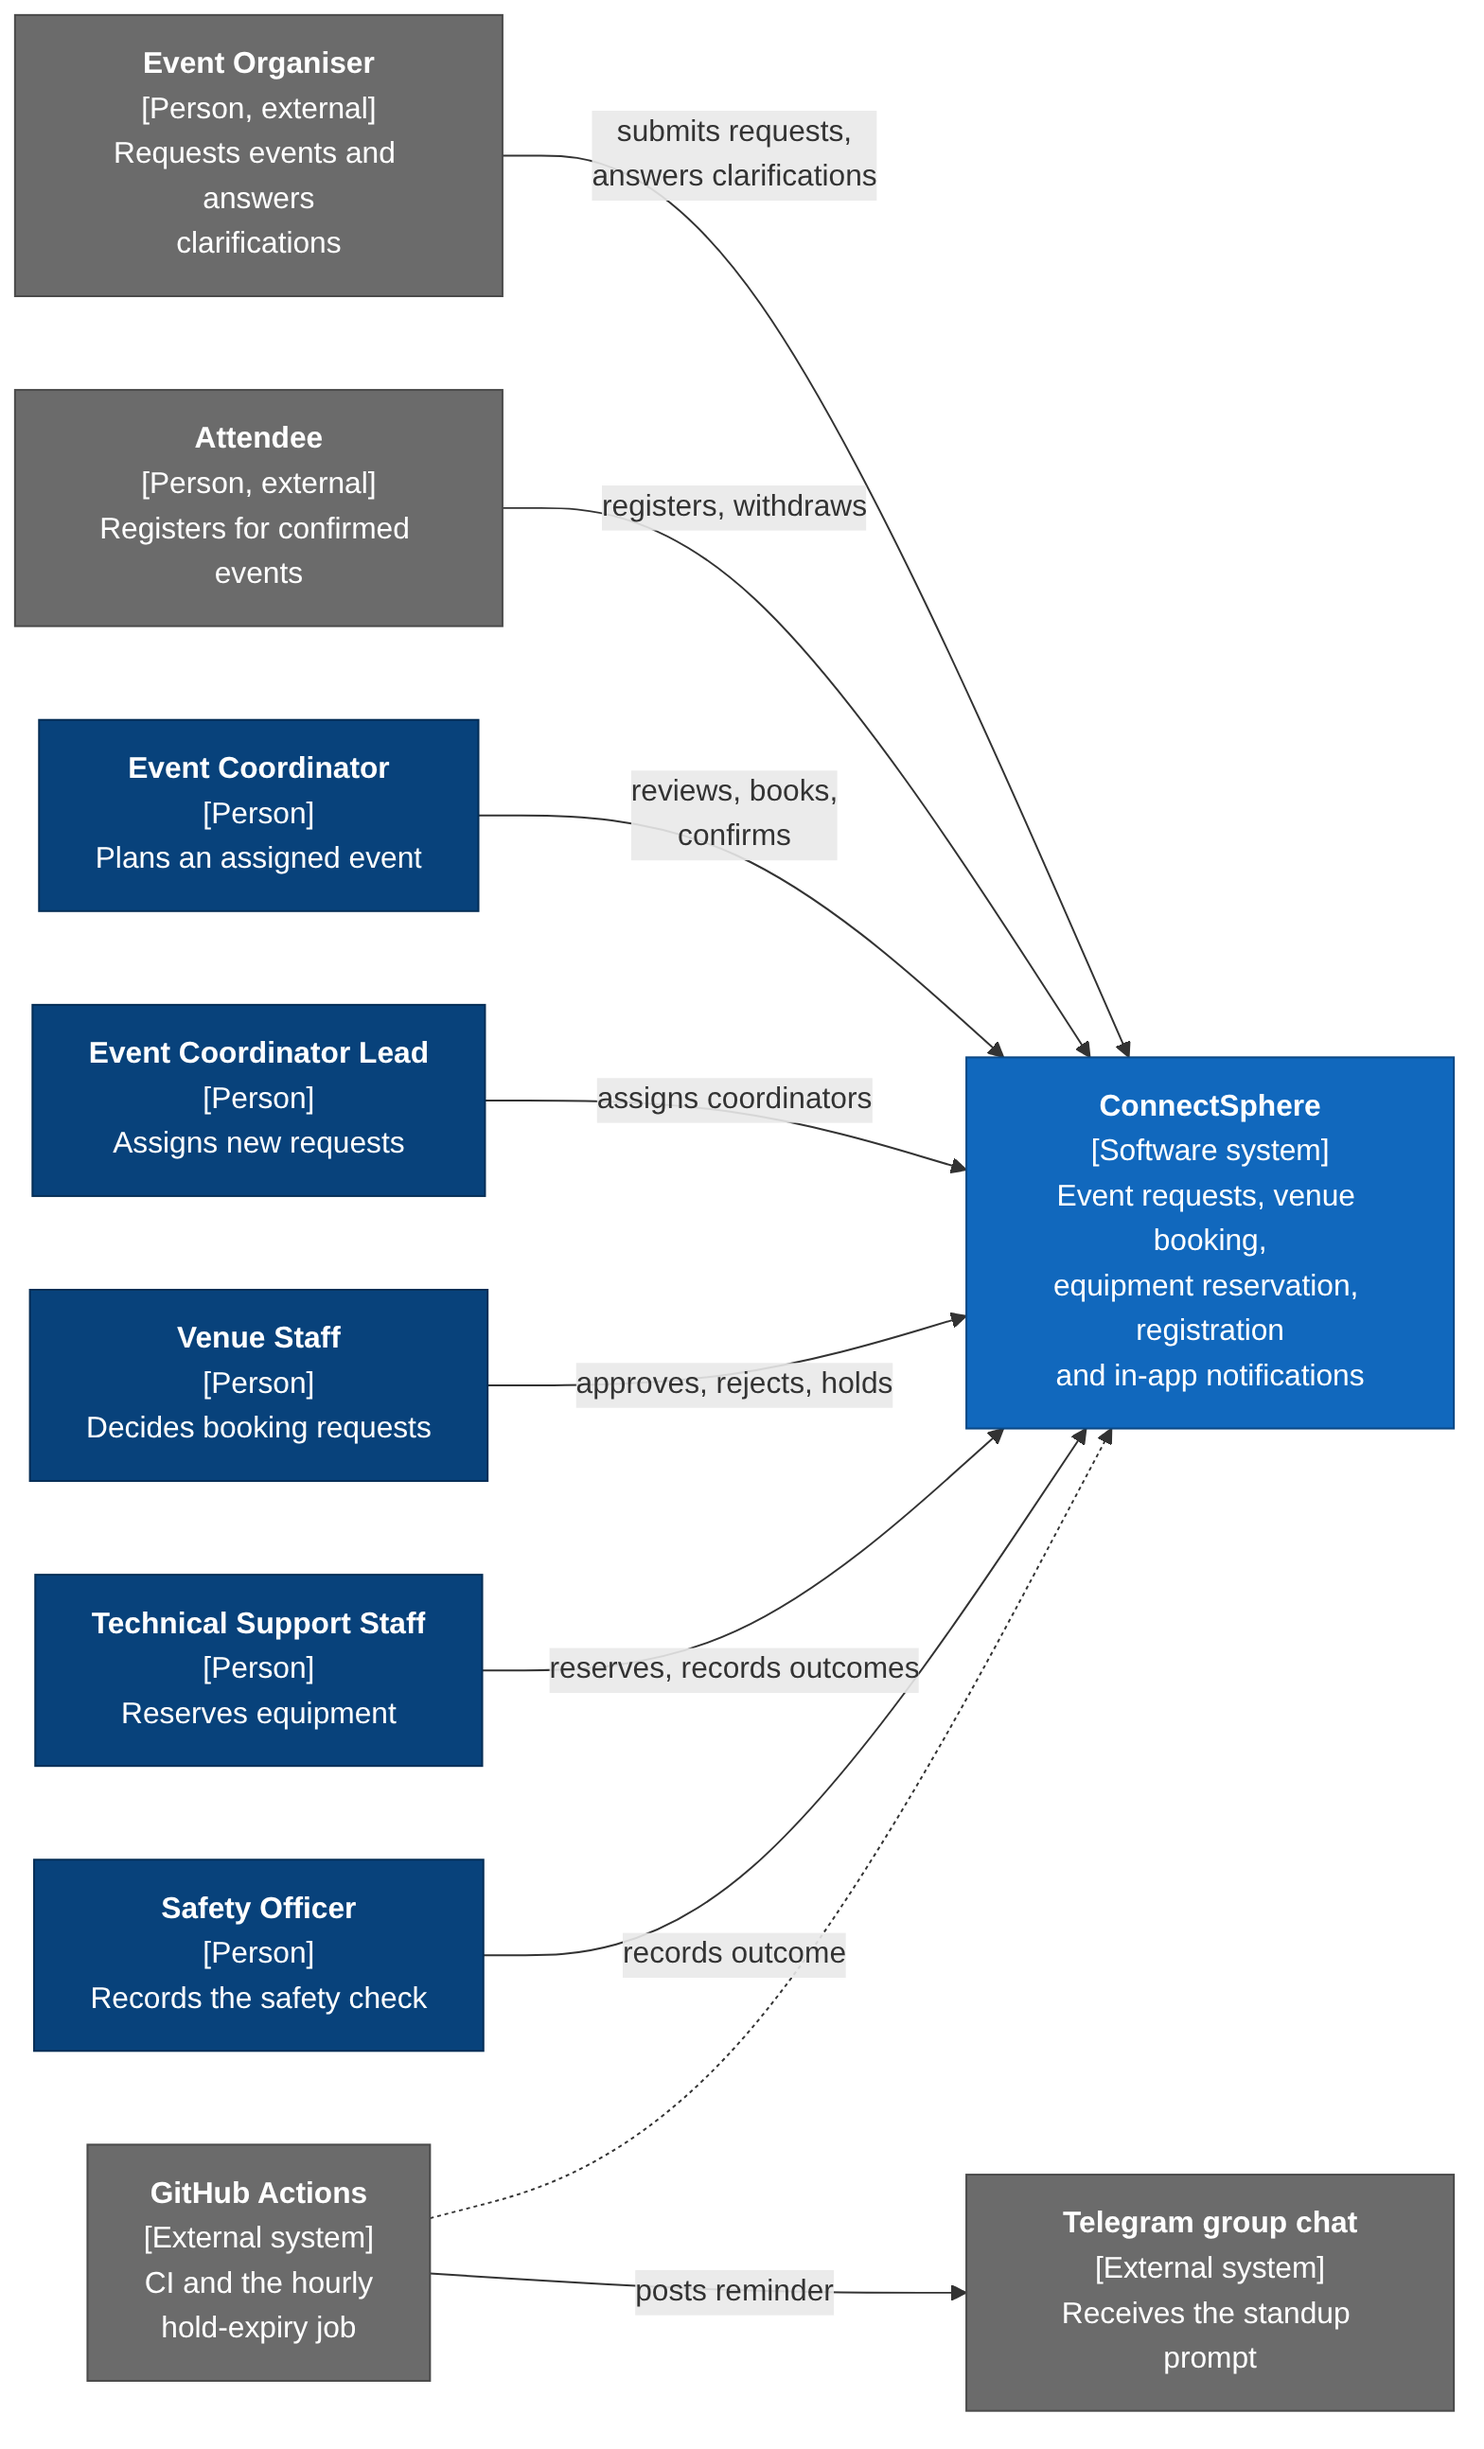
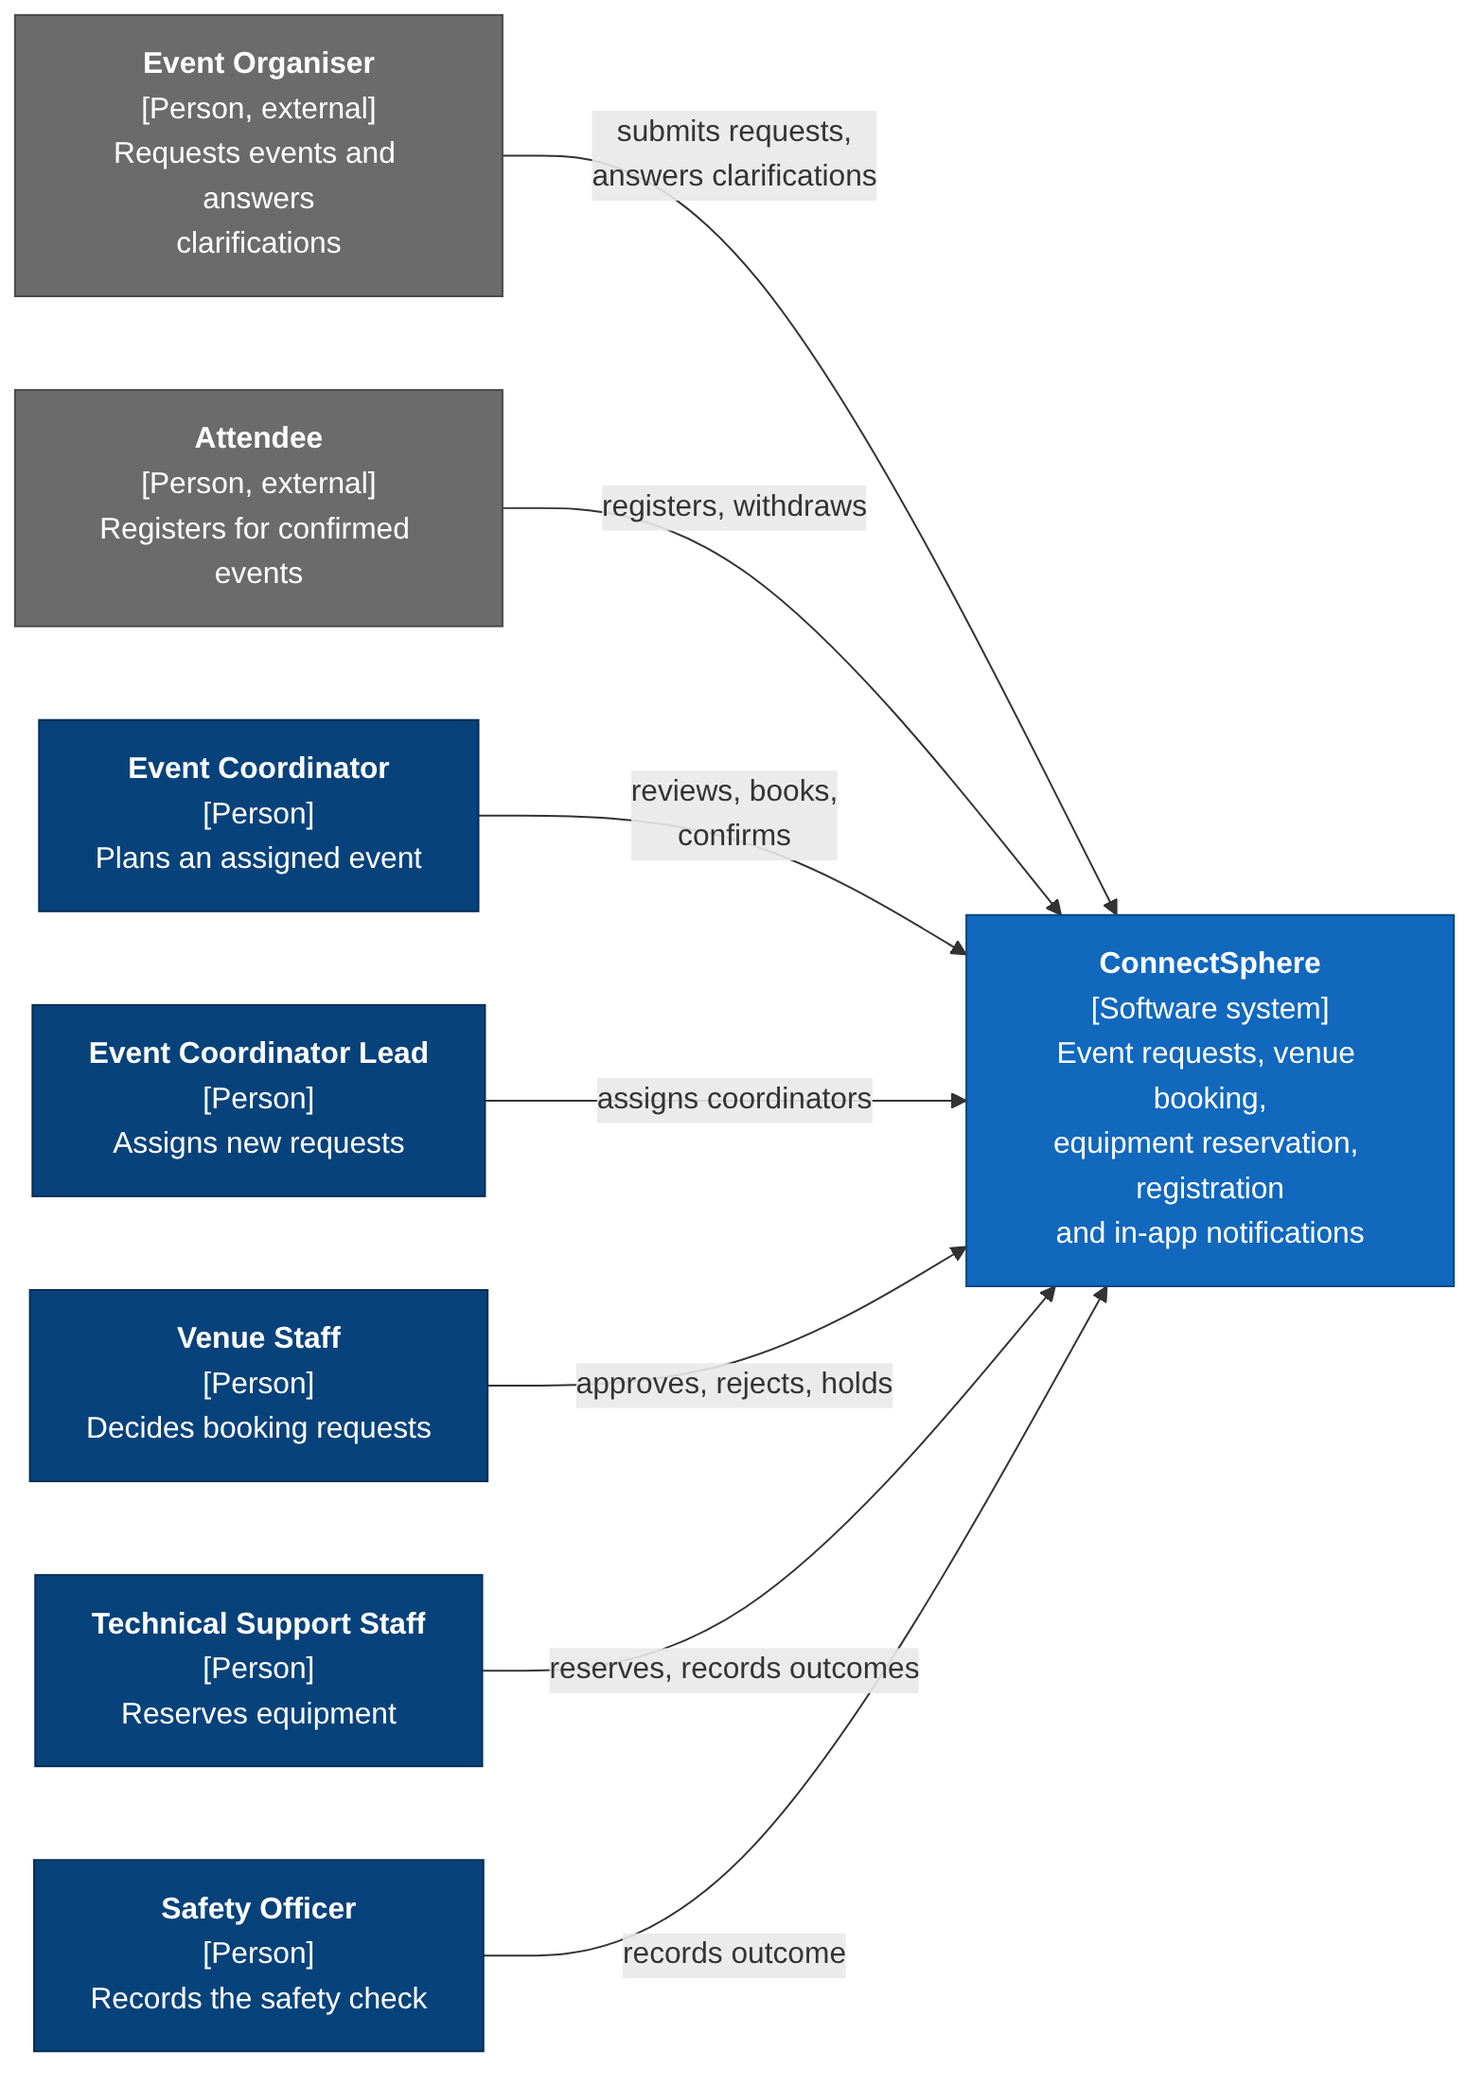
docs(SCRUM-78): remove github actions and telegram bot from C4 diagrams

diff --git a/docs/architecture/01-c4-context.md b/docs/architecture/01-c4-context.md
@@ -1,8 +1,8 @@
 # C4 level 1: system context
 
-Who uses ConnectSphere, and what it touches outside itself. Roles come from the `Role` enum in
+Who uses ConnectSphere, and how they interact with it. Roles come from the `Role` enum in
 `backend/app/modules/auth/permissions.py`. Notifications are in-app only, so there is no email or SMS
-system on this diagram.
+system on this diagram. Only people appear here; delivery tooling is left out.
 
 The C4 diagrams in this folder are drawn as Mermaid flowcharts that follow C4 conventions (person, system,
 container and component boxes, with the technology in square brackets). Mermaid's own `C4Context` syntax is
@@ -25,8 +25,6 @@ flowchart LR
 
   cs["<b>ConnectSphere</b><br/>[Software system]<br/>Event requests, venue booking,<br/>equipment reservation, registration<br/>and in-app notifications"]:::system
 
-  gha["<b>GitHub Actions</b><br/>[External system]<br/>CI and the hourly<br/>hold-expiry job"]:::ext
-  telegram["<b>Telegram group chat</b><br/>[External system]<br/>Receives the standup prompt"]:::ext
 
   organiser -->|"submits requests,<br/>answers clarifications"| cs
   attendee -->|"registers, withdraws"| cs
@@ -35,10 +33,4 @@ flowchart LR
   venuestaff -->|"approves, rejects, holds"| cs
   tech -->|"reserves, records outcomes"| cs
   safety -->|"records outcome"| cs
-  gha -.-> cs
-  gha -->|"posts reminder"| telegram
 ```
-
-**Not part of the running system.** GitHub Actions and Telegram are delivery tooling. The hourly
-`expire-holds` workflow is wired up but does nothing until a `DATABASE_URL` repository secret exists
-(there is no deployed database yet).

diff --git a/docs/architecture/02-c4-containers.md b/docs/architecture/02-c4-containers.md
@@ -7,8 +7,6 @@ The separately running or deployable pieces. Versions are from `frontend/package
 flowchart TB
   classDef person fill:#08427b,stroke:#052e56,color:#ffffff
   classDef container fill:#438dd5,stroke:#2e6295,color:#ffffff
-  classDef tool fill:#b8b8b8,stroke:#8a8a8a,color:#222222
-  classDef ext fill:#6b6b6b,stroke:#4a4a4a,color:#ffffff
 
   users["<b>Users</b><br/>[Person]<br/>Event Organisers, Attendees<br/>and the five staff roles"]:::person
 
@@ -20,23 +18,12 @@ flowchart TB
     job["<b>Hold-expiry job</b><br/>[flask expire-holds]<br/>Expires tentative holds, then sends<br/>24-hour warnings. Safe to run twice"]:::container
   end
 
-  subgraph delivery["Delivery tooling (not part of the running system)"]
-    direction LR
-    ci["<b>CI pipelines</b><br/>[GitHub Actions]<br/>Backend lint, migrations, tests, coverage gates.<br/>Frontend lint, unit, integration and Playwright.<br/>PR title check"]:::tool
-    standup["<b>Standup reminder</b><br/>[GitHub Actions schedule]<br/>Posts the daily standup questions"]:::tool
-  end
-
-  telegram["<b>Telegram group chat</b><br/>[External system]"]:::ext
-
   users -->|"use<br/>HTTPS, browser"| web
   web -->|"calls<br/>JSON over HTTP, Bearer JWT"| api
   api -->|"reads and writes<br/>SQLAlchemy, psycopg2"| db
   job -->|"updates holds,<br/>writes notifications"| db
-  ci -.->|"builds and tests"| cs
-  standup -->|"sends reminder<br/>Telegram Bot API"| telegram
 
   style cs fill:none,stroke:#888888,stroke-dasharray:5 3
-  style delivery fill:none,stroke:#888888,stroke-dasharray:5 3
 ```
 
 **Notes**

diff --git a/docs/architecture/README.md b/docs/architecture/README.md
@@ -5,8 +5,8 @@ All diagrams are Mermaid, so GitHub renders them directly from the `.md` files. 
 
 | File | Contents |
 |---|---|
-| `01-c4-context.md` | C4 level 1: users, the system, GitHub Actions, Telegram |
-| `02-c4-containers.md` | C4 level 2: web app, backend API, database, hold-expiry job, delivery tooling |
+| `01-c4-context.md` | C4 level 1: how users interact with the system |
+| `02-c4-containers.md` | C4 level 2: web app, backend API, database, hold-expiry job |
 | `03-c4-components.md` | C4 level 3: module dependencies, and layering inside the venue module |
 | `04-uml-class-diagrams.md` | UML classes: event planning domain, venue and equipment domain |
 | `05-er-diagram.md` | Database tables, split into three views |

diff --git a/docs/architecture/03-c4-components.md b/docs/architecture/03-c4-components.md
@@ -63,7 +63,7 @@ flowchart TB
   classDef shared fill:#c9def2,stroke:#8fb4d9,color:#0b2a4a
 
   web["<b>Web App</b><br/>[React 19]<br/>Venue search, booking and<br/>Venue Staff screens"]:::container
-  job["<b>Hold-expiry job</b><br/>[flask expire-holds]<br/>Hourly, run by GitHub Actions"]:::container
+  job["<b>Hold-expiry job</b><br/>[flask expire-holds]<br/>Runs hourly"]:::container
   common["<b>common</b><br/>[Python package]<br/>requires_auth, requires_role,<br/>errors, clock"]:::shared
   db[("<b>Database</b><br/>[PostgreSQL 16]<br/>venues, bookings, venue_booking_requests<br/>and 4 related tables")]:::container
 

diff --git a/docs/architecture/07-uml-sequence-diagrams.md b/docs/architecture/07-uml-sequence-diagrams.md
@@ -139,7 +139,7 @@ sequenceDiagram
 ```mermaid
 sequenceDiagram
   autonumber
-  participant GHA as GitHub Actions
+  participant GHA as Hourly scheduler
   participant CLI as flask expire-holds
   participant Ve as venue services
   participant DB as PostgreSQL
